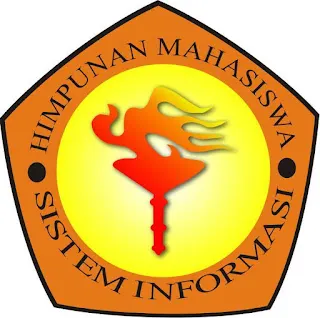
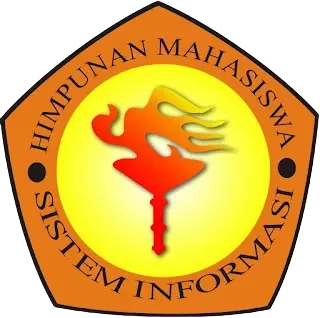
keringanan

diff --git a/src/components/ui/BrandLogo.tsx b/src/components/ui/BrandLogo.tsx
@@ -20,10 +20,13 @@ export function BrandLogo({ size = "md", className = "" }: { size?: "sm" | "md" 
       {!HIMASIError ? (
         <div className={`relative ${currentHeight} w-auto flex items-center justify-center`}>
           <img
-            src="/himsigundar.png"
+            src="/himsigundar.webp"
             alt="Logo HIMASI UG"
             className={`${currentHeight} w-auto object-contain drop-shadow-md`}
             onError={() => setHIMASIError(true)}
+            decoding="async"
+            width={120}
+            height={120}
           />
         </div>
       ) : (
@@ -39,10 +42,13 @@ export function BrandLogo({ size = "md", className = "" }: { size?: "sm" | "md" 
       {!gundarError ? (
         <div className={`relative ${currentHeight} w-auto flex items-center justify-center`}>
           <img
-            src="/logogundar.png"
+            src="/logogundar.webp"
             alt="Logo Universitas Gunadarma"
             className={`${currentHeight} w-auto object-contain drop-shadow-md`}
             onError={() => setGundarError(true)}
+            decoding="async"
+            width={120}
+            height={120}
           />
         </div>
       ) : (

diff --git a/src/components/ui/SplashScreen.tsx b/src/components/ui/SplashScreen.tsx
@@ -31,15 +31,15 @@ export function SplashScreen() {
             clearInterval(interval);
             return 100;
           }
-          return prev + 5;
+          return prev + 10;
         });
-      }, 100);
+      }, 50);
 
       const timer = setTimeout(() => {
         sessionStorage.setItem("HIMASI_splash_shown", "true");
         setDismissed(true);
         document.body.style.overflow = "";
-      }, 2400);
+      }, 900);
 
       return () => {
         clearInterval(interval);
@@ -57,7 +57,7 @@ export function SplashScreen() {
   const isVisible = isMounted && !hasSeenSplash && !dismissed;
 
   if (!isMounted) {
-    return <div className="fixed inset-0 z-[9999] bg-black" />;
+    return null;
   }
 
   if (!isVisible) {

diff --git a/src/app/layout.tsx b/src/app/layout.tsx
@@ -60,6 +60,11 @@ export default function RootLayout({
       suppressHydrationWarning
       className={`${spaceGrotesk.variable} ${plusJakarta.variable} ${jetbrainsMono.variable} h-full antialiased`}
     >
+      <head>
+        <link rel="preload" as="image" href="/hero-editorial.webp" type="image/webp" fetchPriority="high" />
+        <link rel="preload" as="image" href="/himsigundar.webp" type="image/webp" />
+        <link rel="preload" as="image" href="/logogundar.webp" type="image/webp" />
+      </head>
       <body
         suppressHydrationWarning
         className={`${plusJakarta.className} min-h-full bg-slate-50 dark:bg-[#0a0e1f] text-slate-900 dark:text-slate-100 font-sans transition-colors duration-300`}

diff --git a/src/components/landing/HeroSection.tsx b/src/components/landing/HeroSection.tsx
@@ -153,9 +153,13 @@ export function HeroSection({ heroContent }: { heroContent?: HeroContentData }) 
 
             {/* Editorial Photograph */}
             <img
-              src={content.heroImageUrl || "/hero-editorial.jpg"}
+              src={content.heroImageUrl || "/hero-editorial.webp"}
               alt="Indonesian Information Systems Students Collaborating — HIMASI UG"
               className="absolute inset-0 w-full h-full object-cover transition-transform duration-700 group-hover:scale-[1.03]"
+              fetchPriority="high"
+              decoding="async"
+              width={800}
+              height={600}
             />
 
             {/* Cinematic Vignette */}
